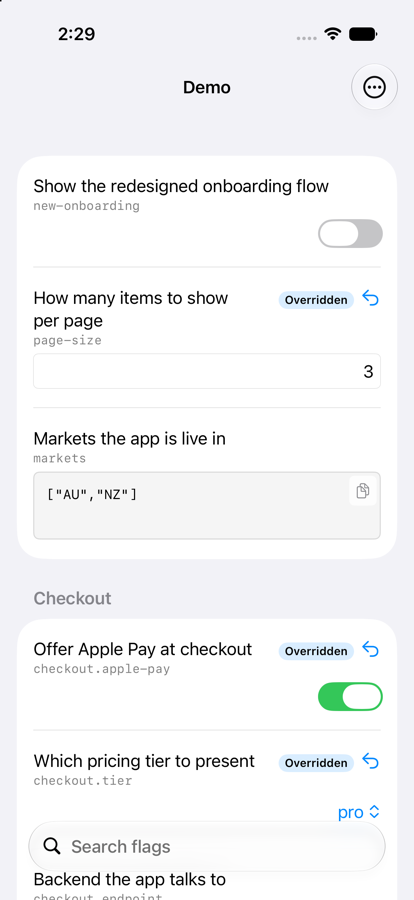
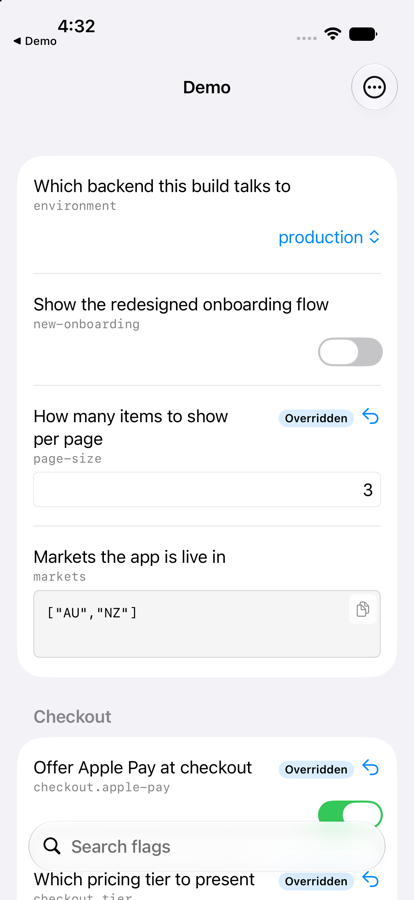
Set flag value fields in a monospaced face (#5)
Flag values are identifiers, numbers, URLs and base64 — strings read character
by character rather than as words. A proportional face lets a 1 and an l, or a 0
and an O, resolve to whichever the reader was expecting, which is exactly the
mistake that costs an afternoon when the value is an endpoint.

The multi-line editor was already monospaced; this brings the single-line fields
to match, so every editable value in the companion is set the same way.

Claude-Session: https://claude.ai/code/session_01NnwCqKNm8rZ63Au6bpYdaD

diff --git a/Sources/FeatureFlagUI/FlagRowView.swift b/Sources/FeatureFlagUI/FlagRowView.swift
@@ -207,6 +207,11 @@ struct FlagTextField: View {
                 TextField("", text: $draft)
                     .textFieldStyle(.roundedBorder)
                     .multilineTextAlignment(.trailing)
+                    // Flag values are identifiers, numbers, URLs and base64 — strings
+                    // read character by character rather than as words. Monospacing
+                    // stops a 1 and an l, or a 0 and an O, resolving to whichever the
+                    // reader expected.
+                    .font(.body.monospaced())
                     #if os(iOS) || os(tvOS)
                         .keyboardType(keyboard.uiKeyboardType)
                         .autocorrectionDisabled()
